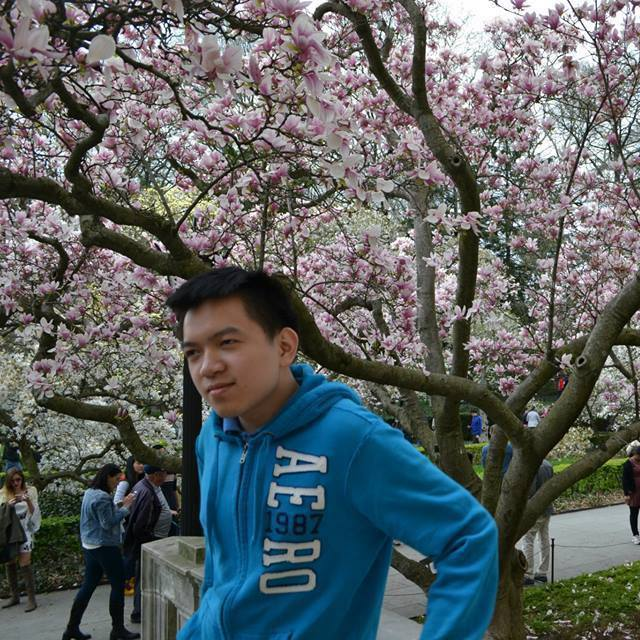
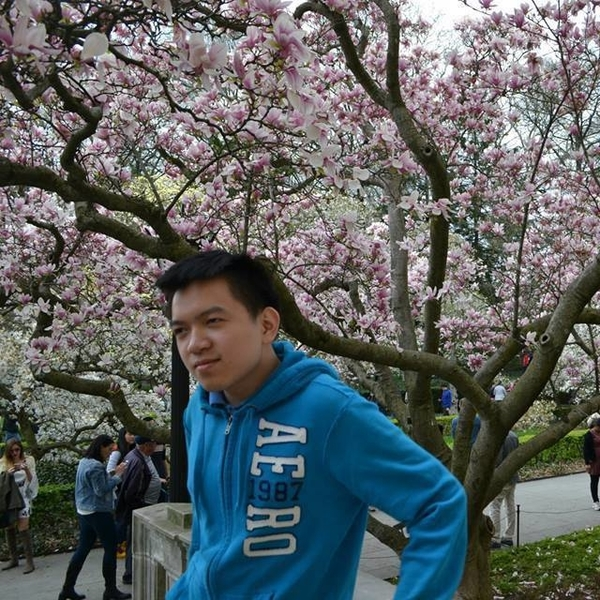
img

Changed region(s): [[0.24, 0.03, 0.27, 0.06]]

diff --git a/index.html b/index.html
@@ -36,7 +36,7 @@
             <div class="classy-nav-container breakpoint-off">
                <!-- Menu -->
                <nav class="classy-navbar justify-content-between" id="Navigation">
-                  <a class=active><img id="logo" src="img/logo.jpg" alt="" width="200" height="200"></a>
+                  <a class=active><img id="logo" src="img/logo.jpg" alt="" width="169" height="100"></a>
                   <!-- Navbar Toggler -->
                   <div class="classy-navbar-toggler">
                      <span class="navbarToggler"></span>
@@ -84,7 +84,7 @@
                         Aspiring Data Scientist
                      </h4>
                      <div class="wow fadeInUp" data-wow-delay="500ms">
-                     	<img src="img/first.jpg" alt="" width="640" height="640">
+                     	<img src="img/first.jpg" alt="" width="600" height="600">
                      </div>
                      <div class="row description">
                         <h5 class="wow fadeInUp clearfix" data-wow-delay="500ms">Welcome to my website! My name is Jason and I am currently a Master's student in Applied Data Science at the University of Michigan - Ann Arbor, School of Information. </h5>
@@ -560,7 +560,7 @@
                         <h2>Contact Me</h2>
                      </div>
                      <div class="wow fadeInUp" data-wow-delay="500ms">
-                        <img src="img/last.jpg" alt="" width="450" height="300">
+                        <img src="img/last.jpg" alt="" width="498" height="332">
                      </div>
                      <div class="col-12">
                         <div class="about-me-content wow fadeInUp" data-wow-delay="500ms">
